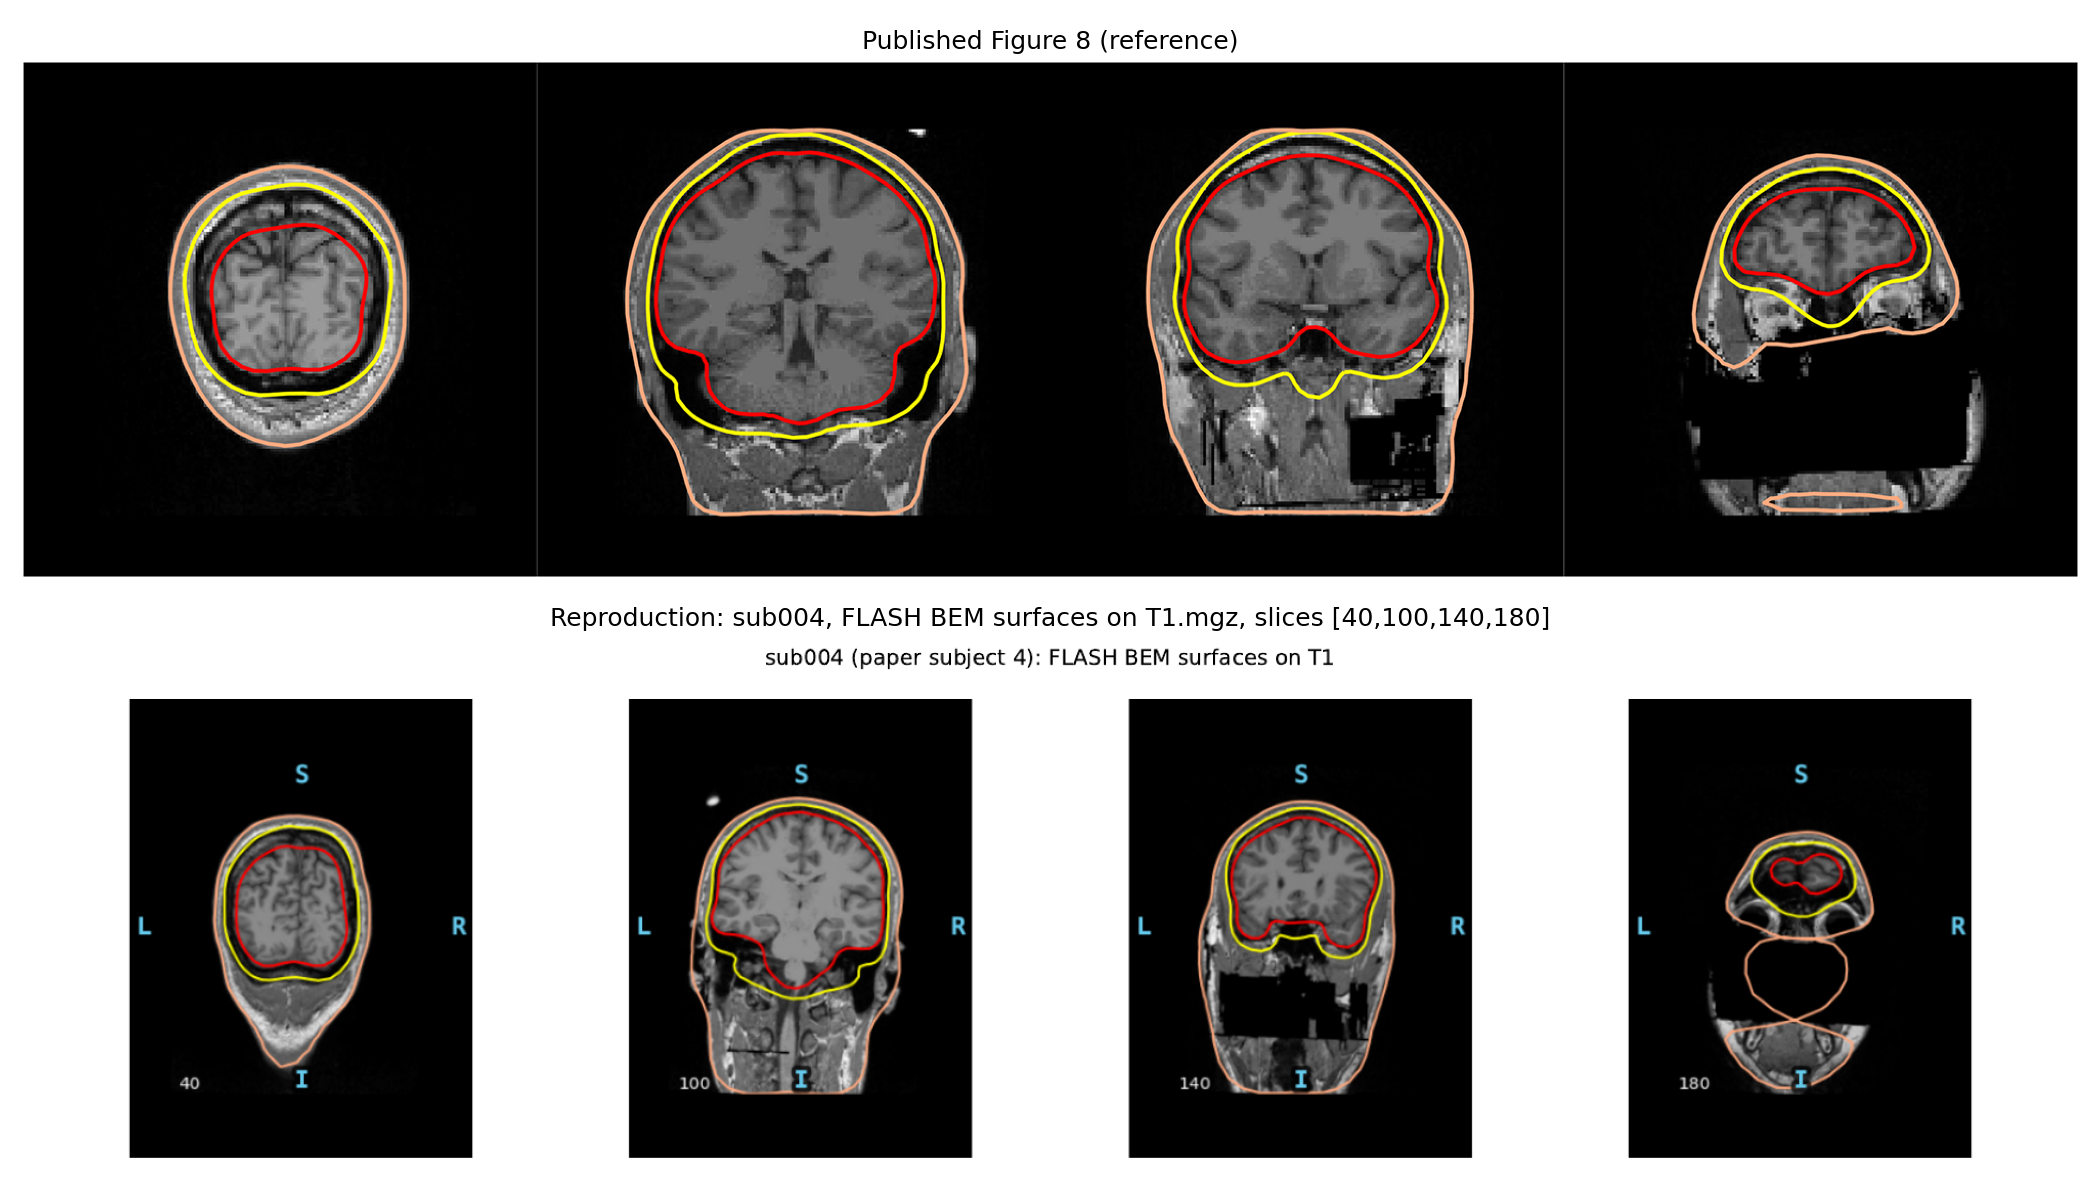
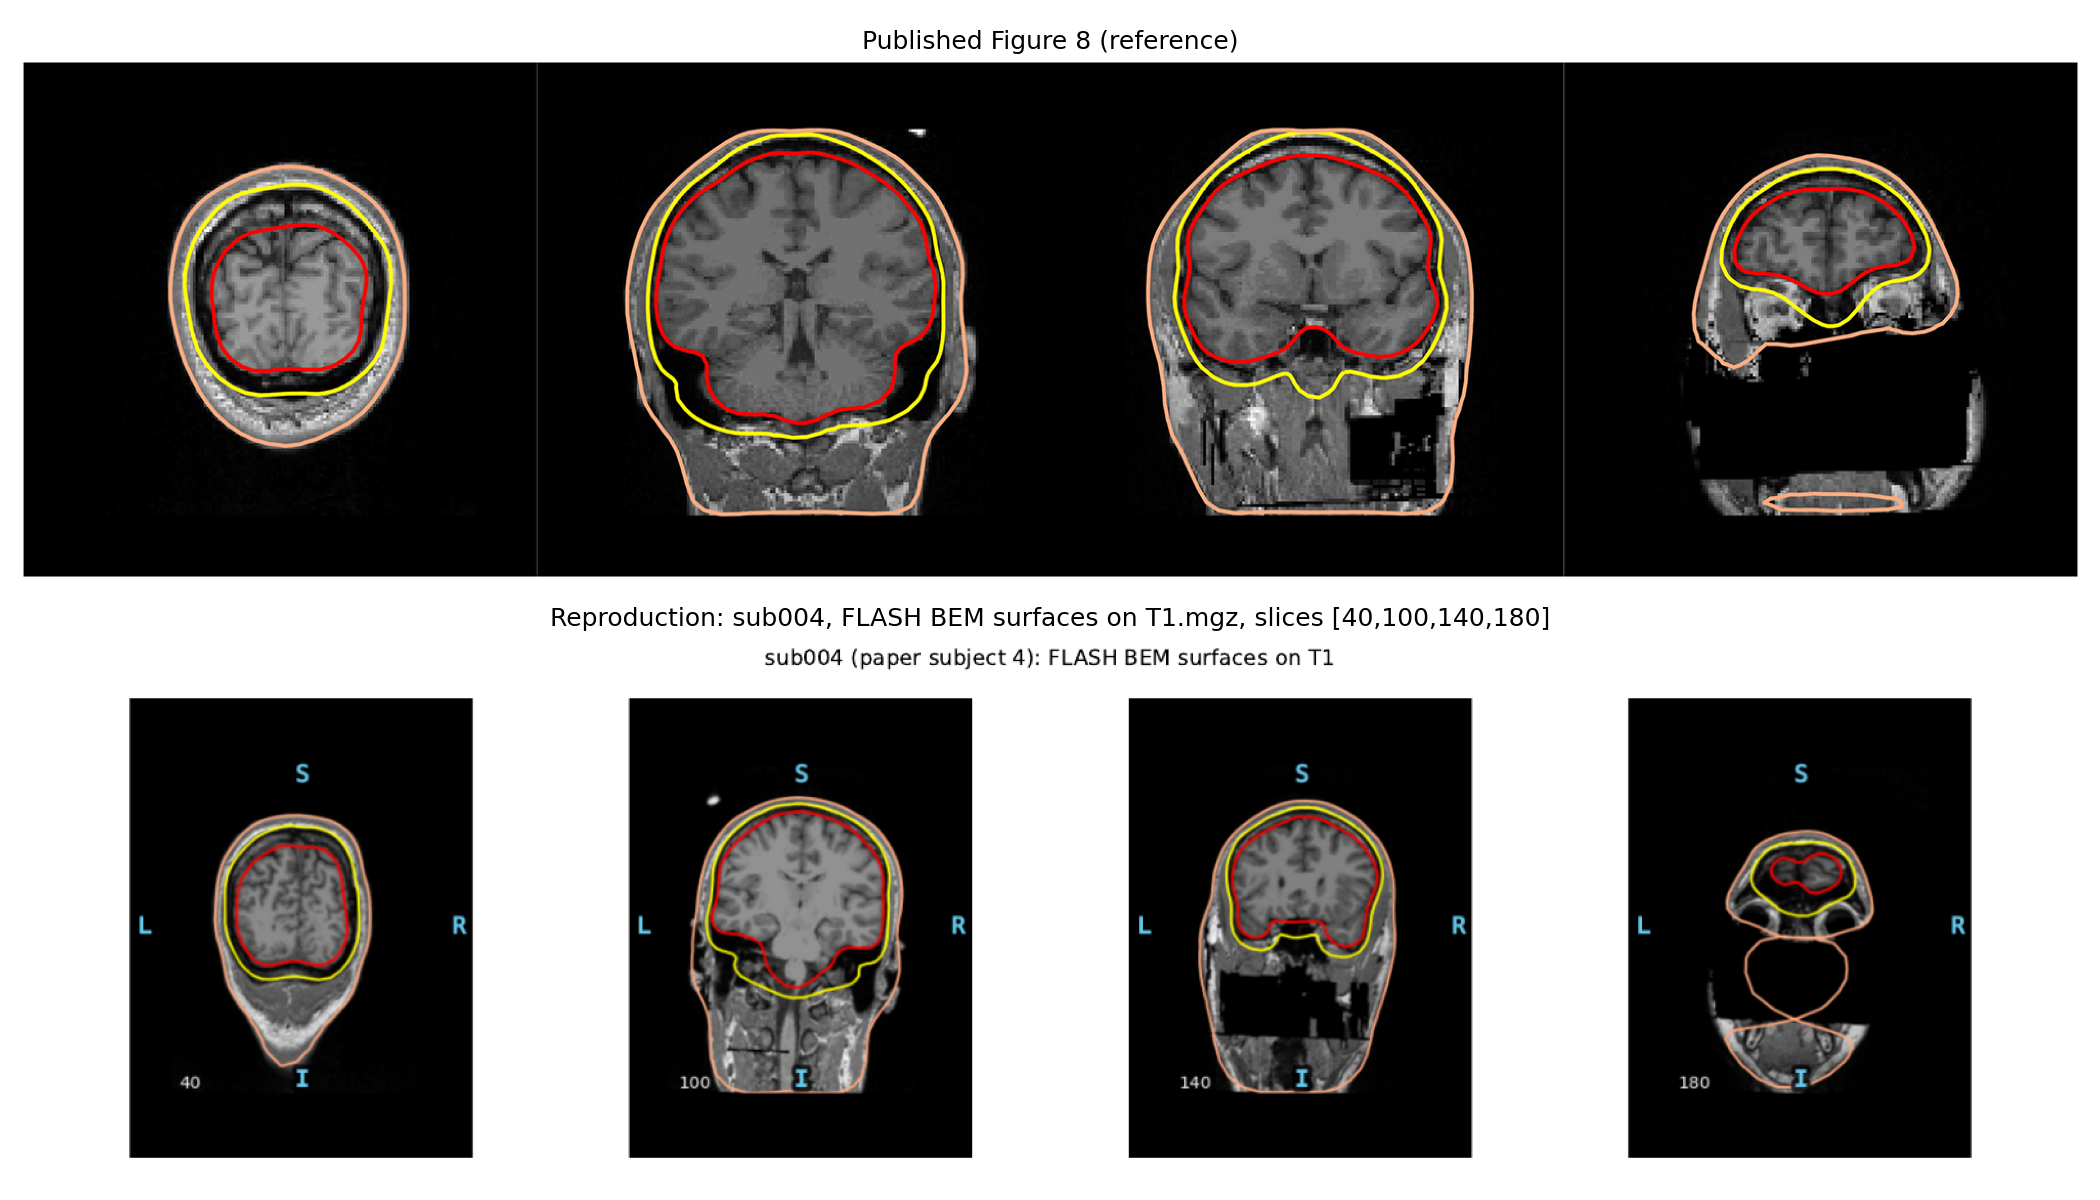
Wrap-up: regenerate stale Fig 8 PDF, finer contact-sheet step, rebuild comparison
jas_fig8_bem_surfaces_sub004.pdf on disk didn't match the committed
script (showed slices 35/60/130/180 from an untracked exploratory run,
not the reverted [40,100,140,180]) -- regenerated it fresh and verified
the labels match. jas_fig8_slice_contact_sheet.py's sweep step was
changed to 1 (every slice, not every 6th) during the user's own
follow-up look-through; kept as-is and regenerated its output PNG to
match. Full 12-figure comparison PDF rebuilt and spot-checked (pages
1/8/9/11) against the regenerated inputs -- no other figure affected.

This closes out the Figure 8 BEM/slice investigation for this session:
FLASH-BEM-surfaces-on-T1.mgz hybrid, slices=[40,100,140,180] (the user's
own original spec, reinstated after the matching investigation hit an
explained ceiling -- see GLITCHES.md).

diff --git a/local_scripts/WakemanRepro/figures_jas/jas_fig8_slice_contact_sheet.py b/local_scripts/WakemanRepro/figures_jas/jas_fig8_slice_contact_sheet.py
@@ -47,7 +47,7 @@ from library.config import subjects_dir  # noqa: E402
 SUBJECT = "sub004"
 T1 = os.path.join(subjects_dir, SUBJECT, "mri", "T1.mgz")
 
-INDICES = list(range(15, 241, 6))
+INDICES = list(range(15, 241, 1))
 NCOLS = 8
 
 TMP_PNG = os.path.join(HERE, "_tmp_contact_sheet_panel.png")
